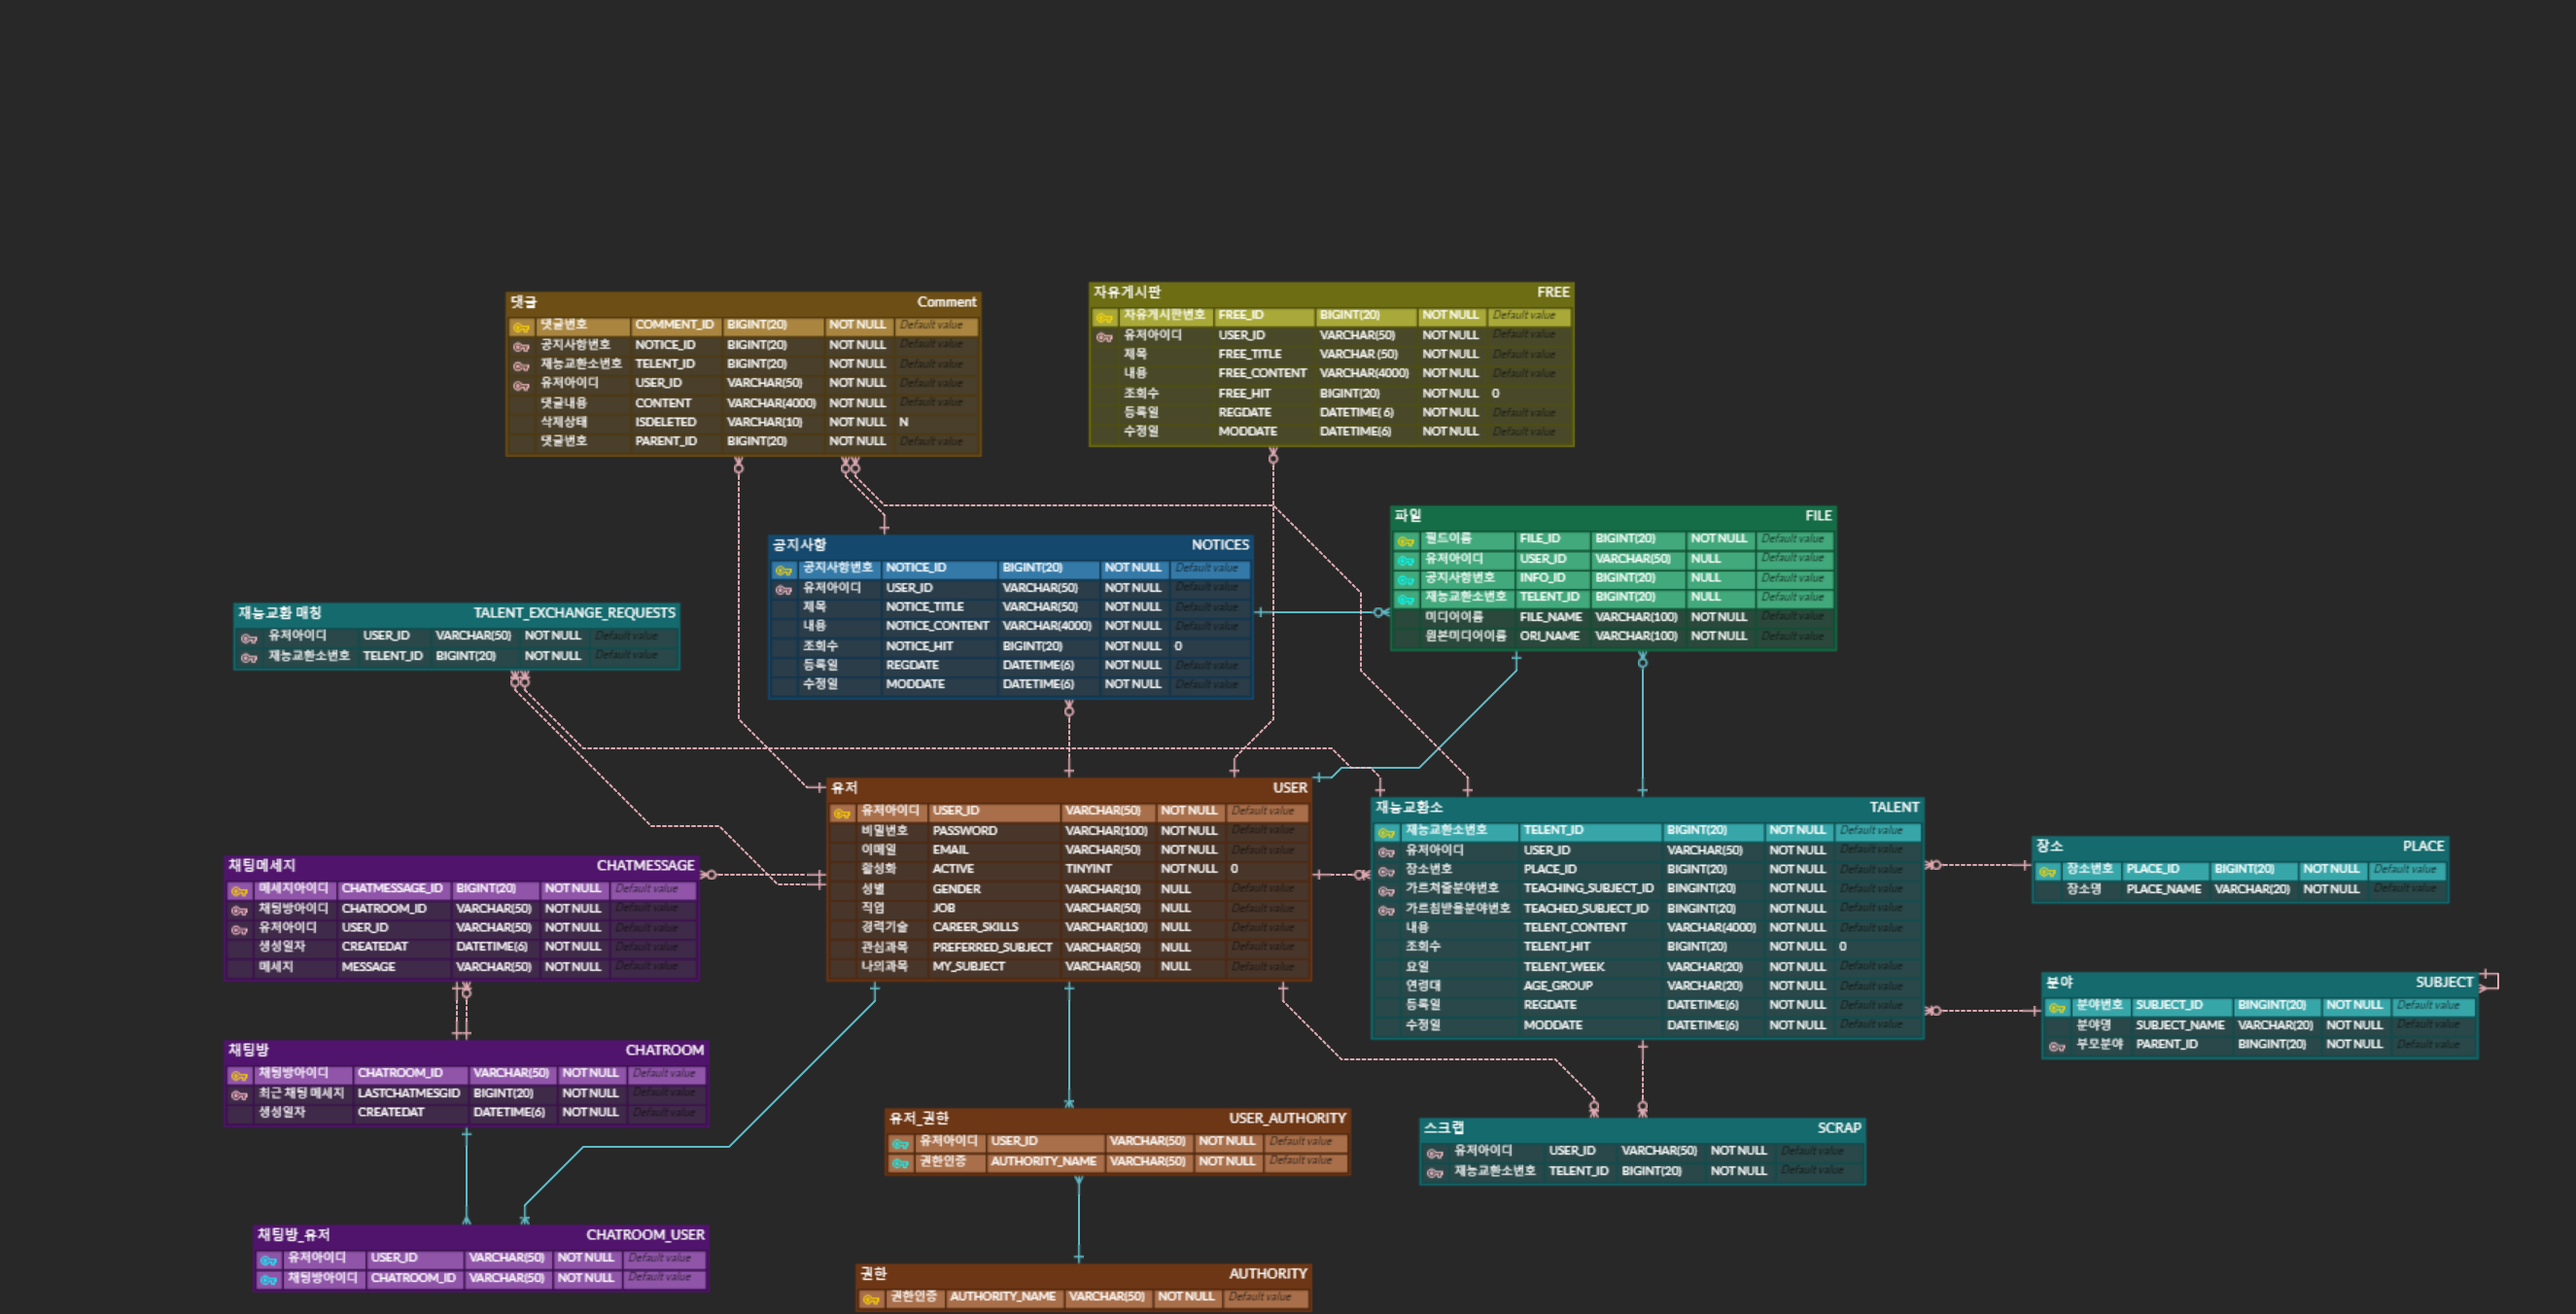
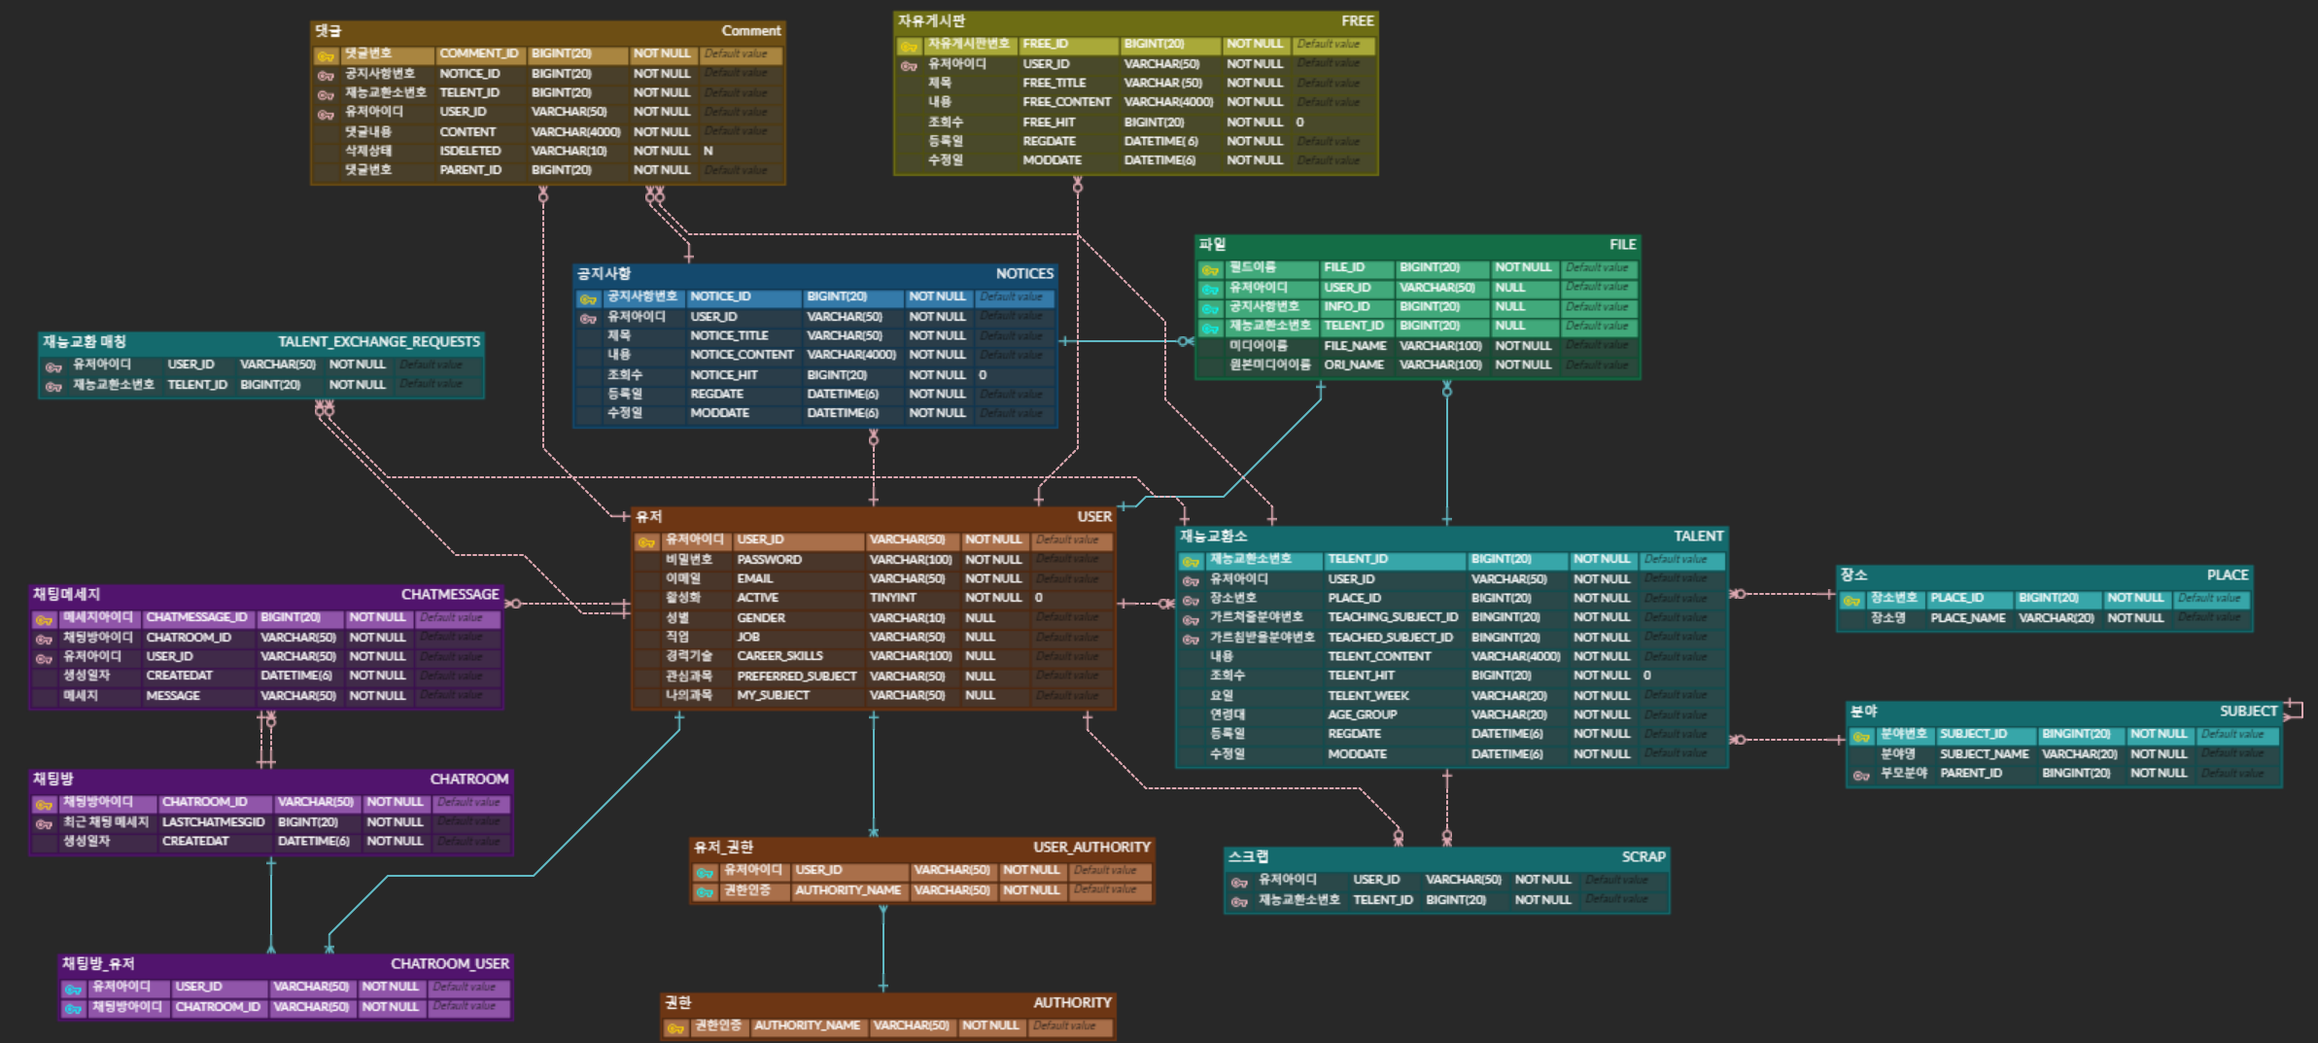
[Docs] README 파일 수정

diff --git a/README.md b/README.md
@@ -62,20 +62,20 @@
 
 ## 🚀 CI/CD 아키텍처
 
-<img src="./img/CICD 아키텍처.png" width="80%">
+<img src="./img/CICD 아키텍처.png">
 
 <br>
 
 ## 📺 API 명세서
 
-<img src="./img/API명세서.png" width="80%">
+<img src="./img/API명세서.png">
 
 https://documenter.getpostman.com/view/29789417/2sA35EaNyR
 
 <br>
 
 ## 📝 DB구조도
-<img src="./img/ERD_재능교환소.png" width="80%">
+<img src="./img/ERD_재능교환소.png">
 
 <br>
 
